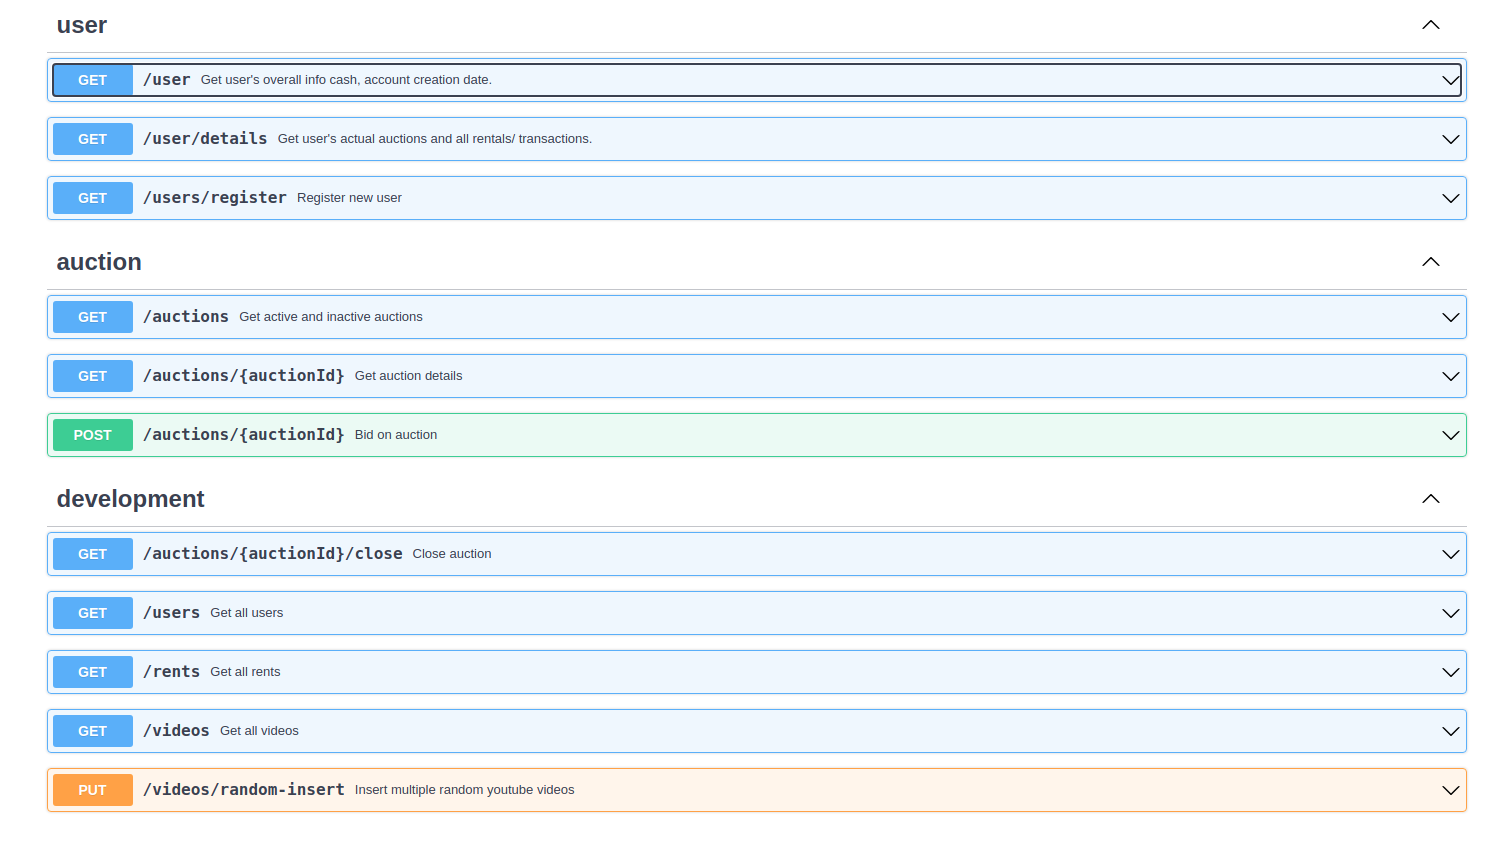
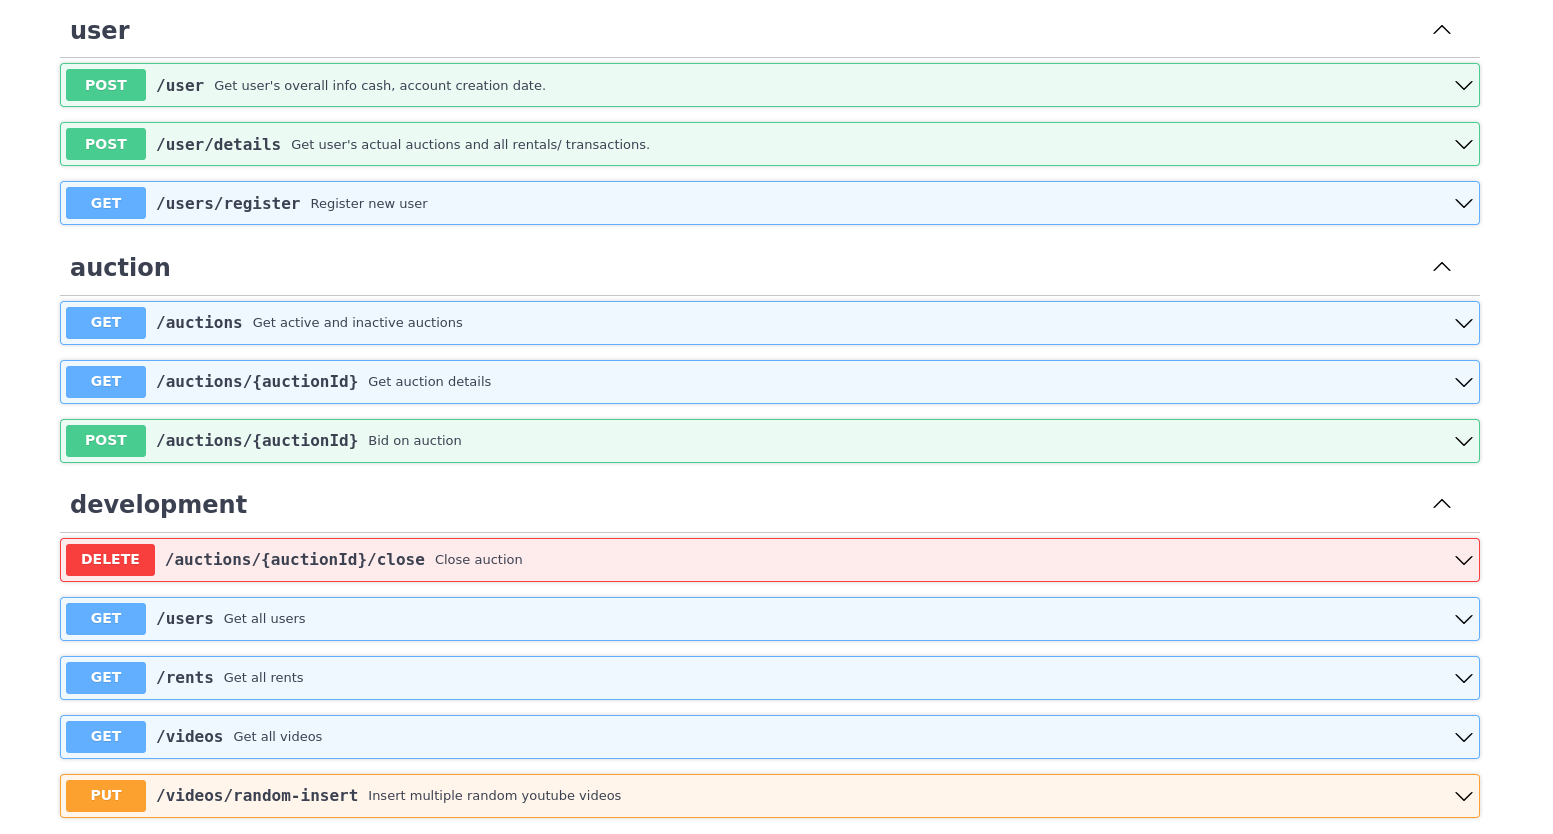
install, run scripts, views methods request changed, requirements up,
swagger update, readme update, migrations fix, models fields added

Changed region(s): [[0.0311, 0.0, 0.9643, 0.9976]]

diff --git a/ynvest_tube_server/ynvest_tube_app/views.py b/ynvest_tube_server/ynvest_tube_app/views.py
@@ -1,10 +1,11 @@
 import datetime
 import json
 import random
-from typing import Optional, List
+from typing import Optional, List, Dict
 
 import requests
 from django.core.handlers.wsgi import WSGIRequest
+from django.db.models import QuerySet
 from django.http import JsonResponse, HttpResponse
 from django.shortcuts import redirect
 from django.views.decorators.csrf import csrf_exempt
@@ -34,13 +35,13 @@ def get_user(request: WSGIRequest) -> HttpResponse:
 
     :param request: wsgi request
     """
-    if request.method == "GET":
+    if request.method == "POST":
         data = json.loads(request.body)
         user_id = data["UserId"]
-        qs = User.objects.all().filter(id=user_id).first()
+        u = User.objects.all().filter(id=user_id).first()
         data = {
             "summary": "Get user",
-            "user": qs.serialize()
+            "user": u.serialize()
         }
         return JsonResponse(data, status=200)
     return HttpResponse(request, status=403)
@@ -54,21 +55,24 @@ def get_user_details(request: WSGIRequest) -> Optional[HttpResponse]:
             - rents - history
 
     """
-    if request.method == "GET":
+    if request.method == "POST":
         data = json.loads(request.body)
         user_id = data["UserId"]
+
         # auctions in which user participate at the moment
         u = User.objects.all().filter(id=user_id).first()
         auctions = Auction.objects.all().filter(last_bidder=u, state="active")
-        # all user transactions
-        rents = Rent.objects.filter(user=u)
+
+        # user rents
+        active_rents = Rent.objects.filter(user=u, state='active')
+        inactive_rents = Rent.objects.filter(user=u, state='inactive')
+
         data = {
             "summary": "Get user actual auctions and all his rents.",
             "cash": u.cash,
-            "attendingAuctions": [a.serialize for a in auctions],  # totally wrong name need to be changed
-            "rents": [r.serialize() for r in rents],
-            # "actualRents": [r.serialize() for r in rents.select_related("auction").filter()],
-            # "expiredRents": [r.serialize() for r in rents.filter()]
+            "attendingAuctions": _serialize_query_set(auctions),  # wrong name need to be changed
+            "actualRents": _serialize_query_set(active_rents),
+            "expiredRents": _serialize_query_set(inactive_rents)
         }
         return JsonResponse(data, status=200)
     return HttpResponse(request, status=403)
@@ -83,8 +87,8 @@ def get_auctions(request: WSGIRequest) -> HttpResponse:
         qs = Auction.objects.all()
         data = {
             "summary": "Get all auctions",
-            "activeAuctions": [a.serialize() for a in qs.filter(state="active")],
-            "inactiveAuctions": [a.serialize() for a in qs.filter(state="inactive")],
+            "activeAuctions": _serialize_query_set(qs.filter(state="active")),
+            "inactiveAuctions": _serialize_query_set(qs.filter(state="inactive")),
         }
         return JsonResponse(data, status=200, safe=False)
     return HttpResponse(request, status=405)
@@ -112,7 +116,6 @@ def get_auction(request: WSGIRequest, auction_id: int) -> HttpResponse:
         return JsonResponse(data, status=200)
 
     elif request.method == "POST":
-
         if qs.first().auction_expiration_date < datetime.datetime.now():
             # auction already ended
             return HttpResponse(request, status=404)
@@ -139,7 +142,17 @@ def get_auction(request: WSGIRequest, auction_id: int) -> HttpResponse:
     return HttpResponse(request, status=403)
 
 
-#######################################################################################################################
+def _serialize_query_set(query_set: QuerySet) -> List[Dict]:
+    """
+    Serializes whole query set to list of dicts
+
+    :param query_set: django query set ( 'list' of rows from table )
+    :return: list of dictionaries representing database models
+    """
+    return [obj.serialize() for obj in query_set]
+
+
+##################################################### DEVELOPMENT ######################################################
 
 def get_users(request: WSGIRequest) -> HttpResponse:
     """
@@ -150,7 +163,7 @@ def get_users(request: WSGIRequest) -> HttpResponse:
         qs = User.objects.all()
         data = {
             "summary": "Get all users",
-            "users": [u.serialize() for u in qs]
+            "users": _serialize_query_set(qs)
         }
         return JsonResponse(data, status=200, safe=False)
     return HttpResponse(request, status=405)
@@ -165,7 +178,7 @@ def get_videos(request: WSGIRequest) -> HttpResponse:
         qs = Video.objects.all()
         data = {
             "summary": "Get all videos",
-            "videos": [a.serialize() for a in qs],
+            "videos": _serialize_query_set(qs),
         }
         return JsonResponse(data, status=200, safe=False)
     return HttpResponse(request, status=405)
@@ -180,19 +193,19 @@ def get_rents(request: WSGIRequest) -> HttpResponse:
         qs = Rent.objects.all()
         data = {
             "summary": "Get all rents",
-            "rents": [a.serialize() for a in qs],
+            "rents": _serialize_query_set(qs),
         }
         return JsonResponse(data, status=200, safe=False)
     return HttpResponse(request, status=405)
 
 
-def get_random_words(n, word_site="https://www.mit.edu/~ecprice/wordlist.10000") -> List[str]:
+def get_random_words(n: int, word_site: str = "https://www.mit.edu/~ecprice/wordlist.10000") -> List[str]:
     """
     Returns random words from word_site
 
-    :param n:
+    :param n: quantity of random words
     :param word_site: english dictionary
-    :return:
+    :return: list of random words from word_site
     """
     response = requests.get(word_site)
     return [x.decode('utf-8') for x in random.sample(list(response.content.splitlines()), n)]
@@ -234,7 +247,7 @@ def close_auction(request: WSGIRequest, auction_id: int) -> HttpResponse:
     Closes auction.
 
     """
-    if request.method == "GET":
+    if request.method == "DELETE":
         auction = Auction.objects.all().filter(id=auction_id)
         auction.update(state="inactive")
         auction = auction.first()

diff --git a/ynvest_tube_server/ynvest_tube_app/migrations/0001_initial.py b/ynvest_tube_server/ynvest_tube_app/migrations/0001_initial.py
@@ -1,6 +1,5 @@
 # Generated by Django 3.2.3 on 2021-05-22 20:33
 
-import dirtyfields.dirtyfields
 from django.db import migrations, models
 import django.db.models.deletion
 import uuid
@@ -8,7 +7,6 @@ import ynvest_tube_server.ynvest_tube_app.models
 
 
 class Migration(migrations.Migration):
-
     initial = True
 
     dependencies = [
@@ -25,7 +23,7 @@ class Migration(migrations.Migration):
                 ('rental_duration', models.DurationField()),
                 ('rental_expiration_date', models.DateTimeField()),
             ],
-            bases=(models.Model, dirtyfields.dirtyfields.DirtyFieldsMixin, ynvest_tube_server.ynvest_tube_app.models.Serializable),
+            bases=(models.Model, ynvest_tube_server.ynvest_tube_app.models.Serializable),
         ),
         migrations.CreateModel(
             name='User',
@@ -51,15 +49,17 @@ class Migration(migrations.Migration):
             name='Rent',
             fields=[
                 ('id', models.AutoField(primary_key=True, serialize=False)),
-                ('auction', models.ForeignKey(on_delete=django.db.models.deletion.CASCADE, to='ynvest_tube_app.auction')),
+                ('auction',
+                 models.ForeignKey(on_delete=django.db.models.deletion.CASCADE, to='ynvest_tube_app.auction')),
                 ('user', models.ForeignKey(on_delete=django.db.models.deletion.CASCADE, to='ynvest_tube_app.user')),
             ],
-            bases=(models.Model, dirtyfields.dirtyfields.DirtyFieldsMixin, ynvest_tube_server.ynvest_tube_app.models.Serializable),
+            bases=(models.Model, ynvest_tube_server.ynvest_tube_app.models.Serializable),
         ),
         migrations.AddField(
             model_name='auction',
             name='last_bidder',
-            field=models.ForeignKey(default=None, null=True, on_delete=django.db.models.deletion.CASCADE, to='ynvest_tube_app.user'),
+            field=models.ForeignKey(default=None, null=True, on_delete=django.db.models.deletion.CASCADE,
+                                    to='ynvest_tube_app.user'),
         ),
         migrations.AddField(
             model_name='auction',

diff --git a/ynvest_tube_server/ynvest_tube_app/models.py b/ynvest_tube_server/ynvest_tube_app/models.py
@@ -2,7 +2,6 @@ import datetime
 import uuid
 from typing import Dict
 
-from dirtyfields import DirtyFieldsMixin
 from django.db.models import CASCADE, ForeignKey
 from django.db import models
 
@@ -51,7 +50,7 @@ class User(models.Model, Serializable):
     creation_date = models.DateTimeField(auto_now=True)
 
 
-class Auction(models.Model, DirtyFieldsMixin, Serializable):
+class Auction(models.Model, Serializable):
     """
     Model represents auctions and stores details about it.
 
@@ -69,7 +68,7 @@ class Auction(models.Model, DirtyFieldsMixin, Serializable):
     video_views_on_sold = models.IntegerField(null=True, default=None)
 
 
-class Rent(models.Model, DirtyFieldsMixin, Serializable):
+class Rent(models.Model, Serializable):
     """
     Model represents transaction between user and server.
 
@@ -78,6 +77,7 @@ class Rent(models.Model, DirtyFieldsMixin, Serializable):
     auction = models.ForeignKey(Auction, on_delete=CASCADE)
     user = models.ForeignKey(User, on_delete=CASCADE)
     state = models.TextField(default="active", choices=(("ACTIVE", "active"), ("INACTIVE", "inactive")))
+    profit = models.IntegerField(null=True, default=None)
 
 
 class Bids(models.Model):

diff --git a/ynvest_tube_server/ynvest_tube_app/tasks.py b/ynvest_tube_server/ynvest_tube_app/tasks.py
@@ -144,6 +144,16 @@ def update_videos_views() -> None:
     print(f"Updated {len(objects)} videos statistics.")
 
 
+def _deactivate_rent(rent: Rent, views_diff: int) -> None:
+    """
+    Deactivate rent in system
+
+    """
+    rent.state = 'inactive'
+    rent.profit = views_diff - rent.auction.last_bid_value
+    rent.save()
+
+
 @celery_app.task(name='settle_rents')
 def settle_users_rents() -> None:
     """
@@ -160,8 +170,6 @@ def settle_users_rents() -> None:
 
         _settle_user(u, views_diff)
         _set_video_rented(v, False)
-
-        r.state = 'inactive'
-        r.save()
+        _deactivate_rent(r, views_diff)
 
     print(f'Settled {len(rents)} rents.')

diff --git a/ynvest_tube_server/ynvest_tube_app/migrations/0008_auto_20210529_1851.py b/ynvest_tube_server/ynvest_tube_app/migrations/0008_auto_20210529_1851.py
@@ -1,0 +1,24 @@
+# Generated by Django 3.2.3 on 2021-05-29 18:51
+
+import datetime
+from django.db import migrations, models
+
+
+class Migration(migrations.Migration):
+
+    dependencies = [
+        ('ynvest_tube_app', '0007_auto_20210526_1941'),
+    ]
+
+    operations = [
+        migrations.AddField(
+            model_name='rent',
+            name='profit',
+            field=models.IntegerField(default=None, null=True),
+        ),
+        migrations.AlterField(
+            model_name='auction',
+            name='auction_expiration_date',
+            field=models.DateTimeField(default=datetime.datetime(2021, 5, 19, 18, 51, 8, 466474)),
+        ),
+    ]

diff --git a/ynvest_tube_server/ynvest_tube_app/migrations/0009_alter_auction_auction_expiration_date.py b/ynvest_tube_server/ynvest_tube_app/migrations/0009_alter_auction_auction_expiration_date.py
@@ -1,0 +1,19 @@
+# Generated by Django 3.2.3 on 2021-05-29 18:57
+
+import datetime
+from django.db import migrations, models
+
+
+class Migration(migrations.Migration):
+
+    dependencies = [
+        ('ynvest_tube_app', '0008_auto_20210529_1851'),
+    ]
+
+    operations = [
+        migrations.AlterField(
+            model_name='auction',
+            name='auction_expiration_date',
+            field=models.DateTimeField(default=datetime.datetime(2021, 5, 19, 18, 57, 44, 129823)),
+        ),
+    ]

diff --git a/README.md b/README.md
@@ -2,22 +2,24 @@
 
 # Table of contests
 
-<hr>
-
+- [Endpoints](#endpoints)
 - [Installation](#installation)
 - [Launch](#launch)
 - [Periodic Tasks](#periodic-tasks)
-- [Endpoints](#endpoints)
+
+## Endpoints
+
+![](docs/.README_images/endpoints.png)
 
 ## Installation
 
-<hr>
 Redis:
-
 - `sudo apt-get install redis`
 
 YoutubeApi
-- Add file `api_config.py` in `../ynvest_tube_server/ynvest_tube_server/` with variable `api_key='xxxxxxxxxxxxxxxxxxx'`
+
+- Change api_key in `api_config.py` in `../ynvest_tube_server/ynvest_tube_server/` to key generated
+  in [YoutubeDataApi Projects](https://developers.google.com/youtube/v3).
 
 ![](docs/.README_images/apikey.png)
 
@@ -25,25 +27,22 @@ Requirements
 
 - `pip install -r requirements.txt`
 
-
 Migrations (Call migrations, just for sure)
 
 - `./manage.py makemigrations`
 
 - `./manage.py migrate`
 
-
 ## Launch
 
-Run three terminals in directory containing `manage.py`.
-In each one activate python virutalenv with `source venv/bin/activate`.
+Run three terminals in directory containing `manage.py`. In each one activate python virutalenv
+with `source venv/bin/activate`.
 
 1. In first: `celery -A ynvest_tube_server worker -l info -B`
 
 2. In second: `celery -A ynvest_tube_server beat -l info --scheduler django_celery_beat.schedulers:DatabaseScheduler`
 
 3. In third: `./manage.py runserver`
-
 
 Server is bind to local `http://127.0.0.1:8000/`
 
@@ -85,6 +84,3 @@ Payoff users salaries at the end of renting.
 - sets rent to `inactive`
 - sets video to `not rented`
 
-## Endpoints
-
-![](docs/.README_images/endpoints.png)
